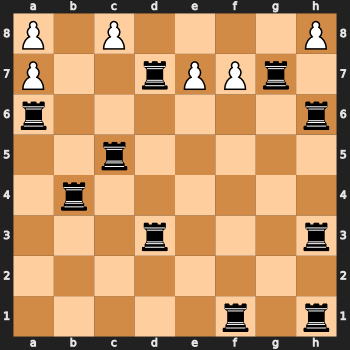
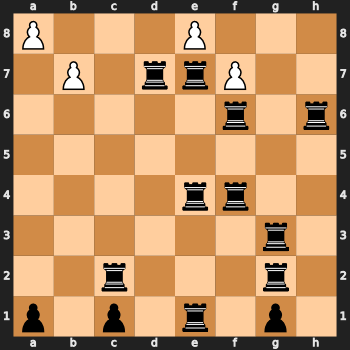
Add files via upload

diff --git a/mission.py b/mission.py
@@ -31,6 +31,26 @@ class cl_mission:
                 sq = np.random.randint(64)
                 self.board.set_piece_at(square=sq,piece=chess.Piece(piece_type=chess.ROOK,color=chess.BLACK))
 
+    def addSquadFoe(self,squad):
+        sq = squad.location[1]*8+squad.location[0]
+        self.board.set_piece_at(square=sq , piece=chess.Piece(piece_type=chess.PAWN,color=chess.WHITE))
+        return True
+        
+    def addSquadFriend(self,squad):
+        sq = squad.location[1]*8+squad.location[0]
+        self.board.set_piece_at(square=sq , piece=chess.Piece(piece_type=chess.PAWN,color=chess.BLACK))
+        return True
+        
+    def renderBoard(self):
+        tmp = chess.svg.board(self.board,size=350)
+        with open("tmp.svg", "w") as text_file:
+            print("{}".format(tmp), file=text_file)
+        drawing = svg2rlg("tmp.svg")
+        renderPDF.drawToFile(drawing, "tmp.pdf")
+        renderPM.drawToFile(drawing, "tmp.png", fmt="PNG")
+        img = mpimg.imread("tmp.png")
+        return True
+
     def showFriendlies(self,squads):
         for squad in squads:
             sq = squad.location[1]*8+squad.location[0]
@@ -42,14 +62,13 @@ class cl_mission:
         renderPDF.drawToFile(drawing, "tmp.pdf")
         renderPM.drawToFile(drawing, "tmp.png", fmt="PNG")
         img = mpimg.imread("tmp.png")
-#        plt.imshow(img)
-#        plt.show()
         return True
 
     def showFoes(self,squads):
         for squad in squads:
             sq = squad.location[1]*8+squad.location[0]
             self.board.set_piece_at(square=sq , piece=chess.Piece(piece_type=chess.PAWN,color=chess.WHITE))
+
         tmp = chess.svg.board(self.board,size=350)
         with open("tmp.svg", "w") as text_file:
             print("{}".format(tmp), file=text_file)
@@ -57,8 +76,7 @@ class cl_mission:
         renderPDF.drawToFile(drawing, "tmp.pdf")
         renderPM.drawToFile(drawing, "tmp.png", fmt="PNG")
         img = mpimg.imread("tmp.png")
-#        plt.imshow(img)
-#        plt.show()
+
         return True
 
     def __init__(self,company,p_viz,type="assault"):
@@ -67,22 +85,23 @@ class cl_mission:
         print("\n----> Your mission is to {} and eliminate the enemy force.".format(self.type))
         company.setOrders(ord.cl_orders(self.type))
 
-        # mission briefing from Battalion CO
-        # create enemy squads
-        self.enemy_squads = []
-        for i in range(np.random.randint(1,10)):
-            self.enemy_squads.append(sq.cl_squad(PVT=4))
-        for squad in self.enemy_squads:
-            squad.setLocation(np.random.randint(0,8),np.random.randint(6,8))
-
         # create empty battlefield
         self.board = chess.Board(fen=None)
 
         # add terrain
         self.addTerrain()
 
+        # mission briefing from Battalion CO
+        # create enemy squads
+        self.enemy_squads = []
+        for i in range(np.random.randint(1,10)):
+            self.enemy_squads.append(sq.cl_squad(PVT=4))
+        for squad in self.enemy_squads:
+            squad.setLocation((np.random.randint(0,8),np.random.randint(6,8)))
+            self.addSquadFoe(squad)
+        self.renderBoard()
+
         # show briefing map
-        self.showFoes(self.enemy_squads)
         self.p_viz.showMap("Batallion Briefing")
 
 

diff --git a/main.py b/main.py
@@ -59,10 +59,13 @@ def main():
 
 
         ## add friendlies to board - squads assigned auto by their LT
-        # fro platoon in active platton
-            # for suqad in platoon.squads
-                # user orders to pick location on map and assign to bard
-        p_viz.showMap(active_company.soundOffMessage())
+        for platoon in active_company.platoons:
+            for squad in platoon.squads:
+                squad.setLocation(platoon.orderSquad())
+                active_mission.addSquadFriend(squad)
+                
+        active_mission.renderBoard()
+        p_viz.showMap("should see all squads")#active_company.soundOffMessage())
 
 
         # mission while loop (heavy interactive)

diff --git a/platoon.py b/platoon.py
@@ -11,6 +11,18 @@ import orders as ord
 
 class cl_platoon(sq.cl_squad):
 
+    def orderSquad(self):
+        # left 0,1 # center 2,3,4,5 # right 6,7
+        print("debug: {}".format(self.orders.type))
+        if self.orders.type == 'left':
+            x=0
+        elif self.orders.type == 'center':
+            x=2
+        else:
+            x=6
+        y=0
+        return x,y
+
     def chooseOrders(self):
         orderz = ord.cl_orders()
         return orderz # a cl_orders object

diff --git a/squad.py b/squad.py
@@ -11,10 +11,10 @@ import orders as ord
 
 class cl_squad:
 
-    def setLocation(self,x,y):
-        self.location = (x,y)
+    def setLocation(self,l):
+        self.location = (l[0],l[1])
         return True
-    
+        
     def isAlive(self):
         if self.SGT<=0 or self.PVT<=0: return 0
         else: return 1
